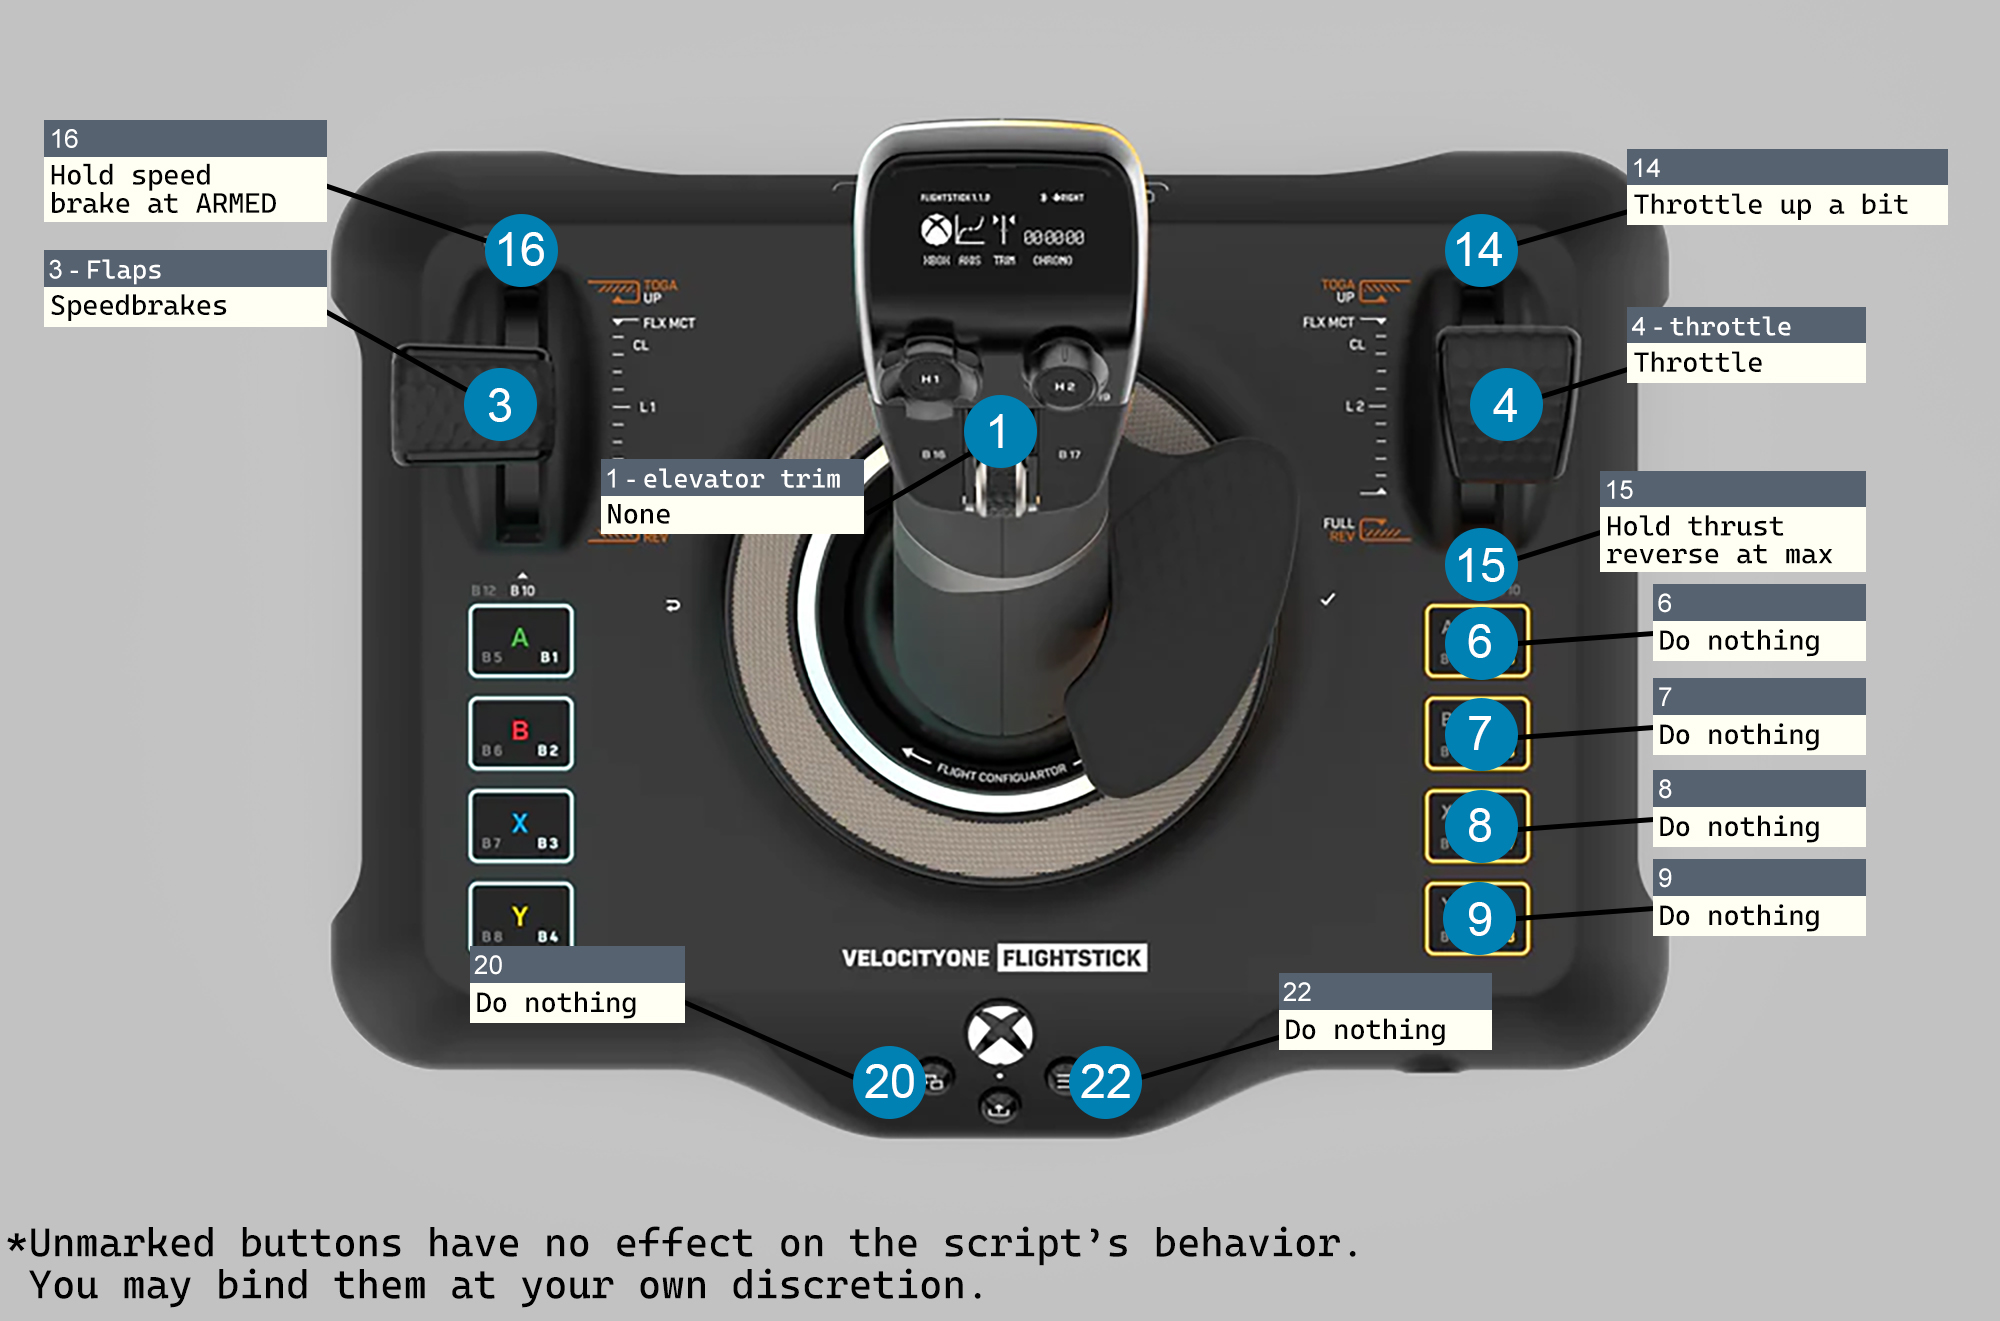
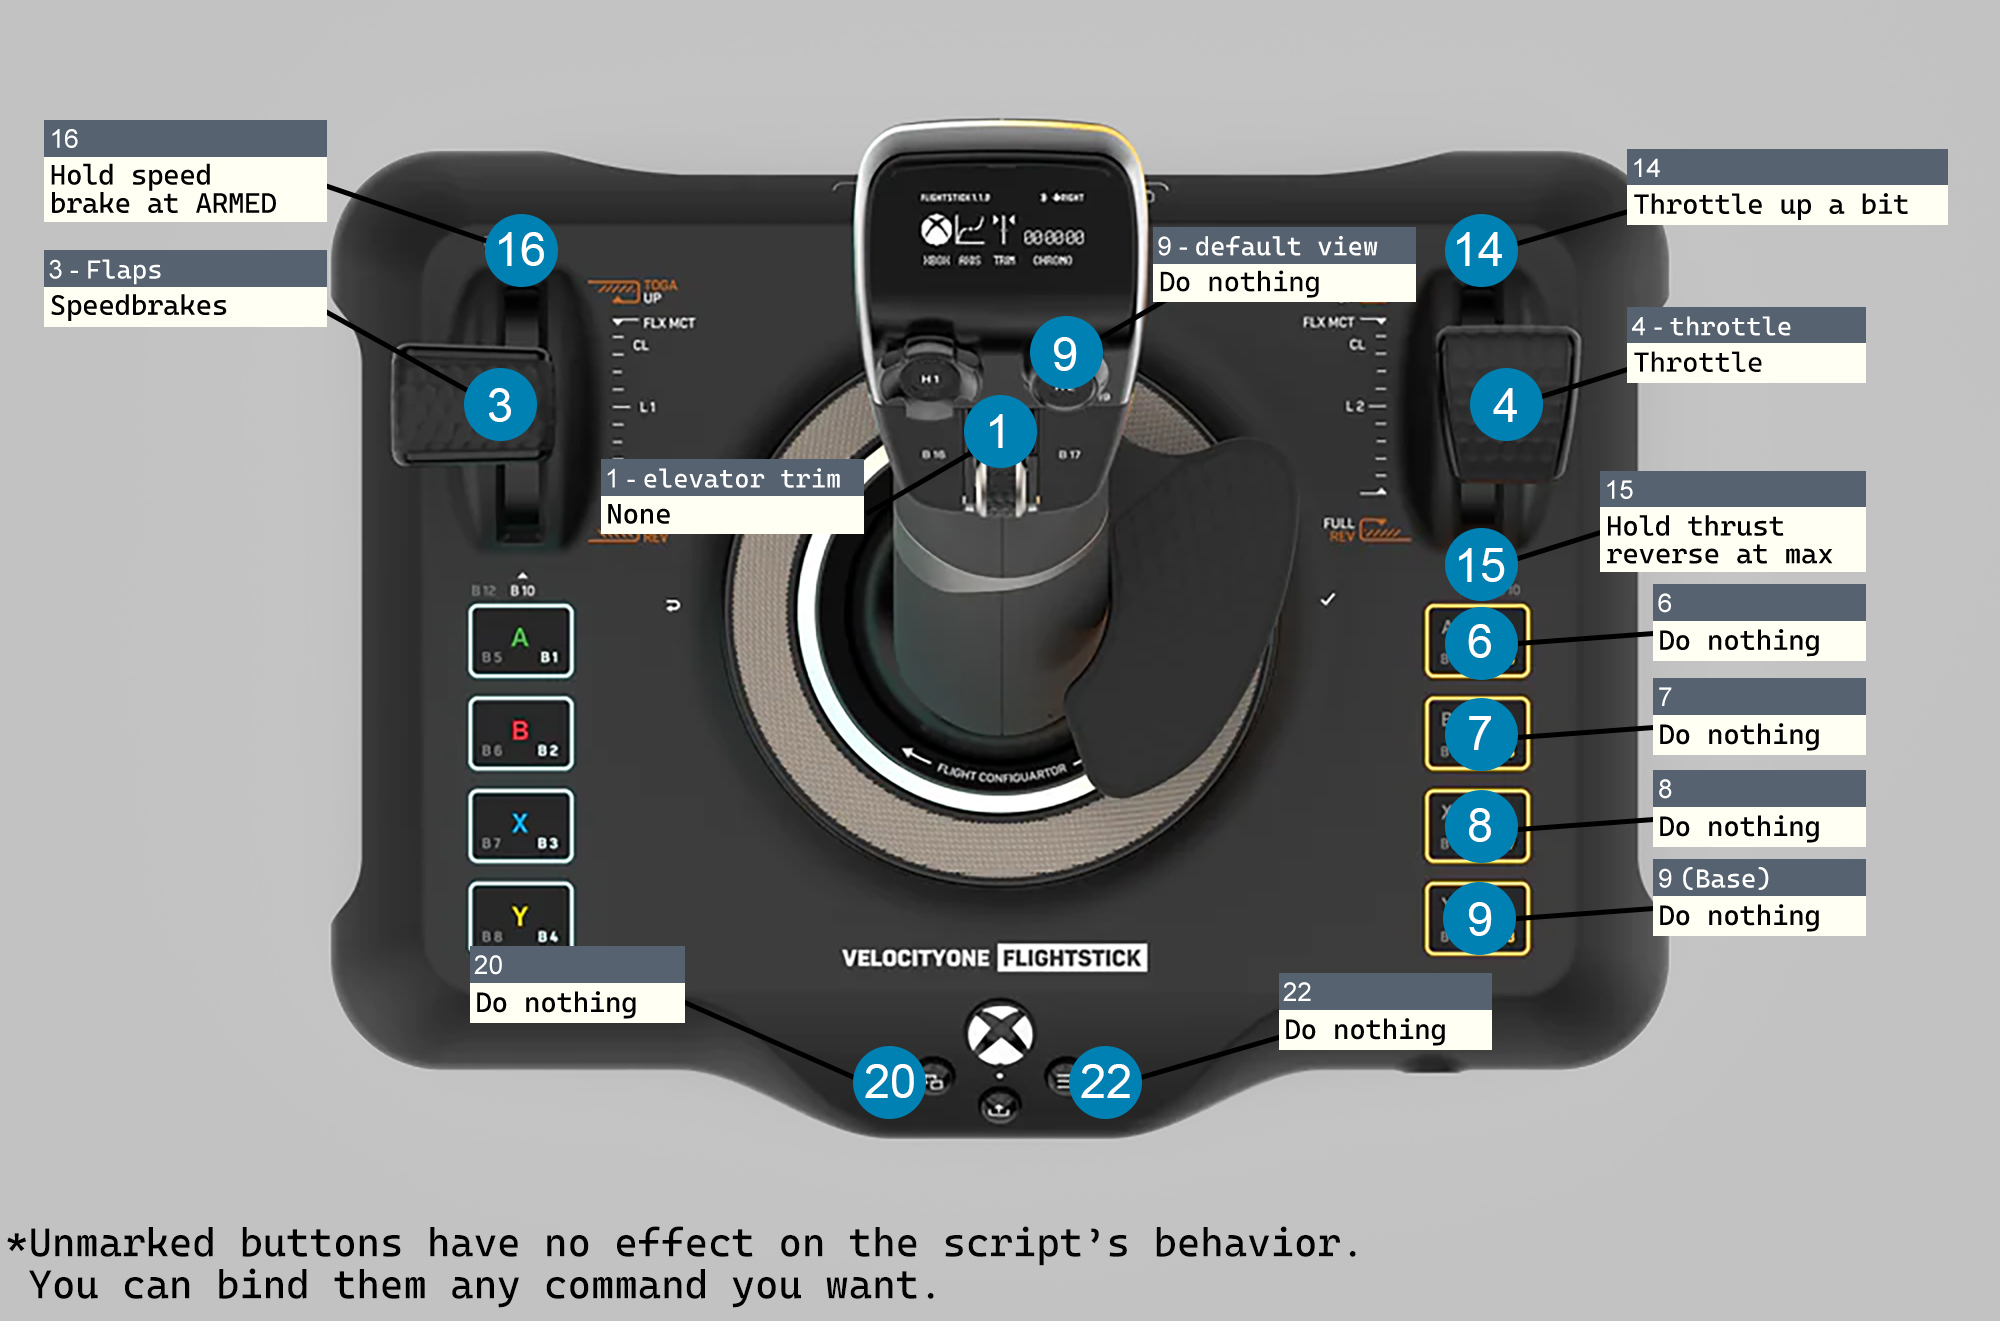
added elevator trim, button disable / fixed log spamming

diff --git a/README.md b/README.md
@@ -11,10 +11,15 @@ Toliss A320 Family와 터틀비치 벨로시티원 플라이트스틱용 Lua 스
 - 스포일러 ARM
 - FLX/MCT Detent
 - TO/GA Detent
-- 트림 휠을 통한 FCU (속도, 방위, 고도, 상승/하강률) 제어
+- 트림 휠을 통한 FCU (속도, 방위, 고도, 상승/하강률), 엘레베이터 트림 제어
 - FCU 노브 누르기/당기기
+- 가운데 휠 조작시 양 옆 버튼 비활성화 (오조작 방지)
 
-[기능 소개/설치 가이드](https://youtu.be/ooHXa0mzt3g)
+[기능 소개/설치 가이드](https://youtu.be/ooHXa0mzt3g)  
+(2024-03-13 추가)  
+Base의 6, 7, 8, 9 버튼은 각각 속도, 헤딩, 고도, VS 조작을 활성화합니다.  
+Top의 9번 버튼은 엘레베이터 트림 조작을 활성화합니다.
+
 
 ## 설치 방법
 
@@ -24,6 +29,8 @@ Toliss A320 Family와 터틀비치 벨로시티원 플라이트스틱용 Lua 스
 - FlyWithLua\Scripts 폴더 안에 'please read the manual.lua' 파일을 삭제합니다.
 
 ### 스크립트 설치/조이스틱 설정
+모든 설정은 조이스틱이 **왼손 모드**로 설정된 기준입니다.
+
 [스크립트 다운로드](https://github.com/chrimp/Flightstick_extension/releases/download/23-07-11/TolissFS.lua)
 - 'TolissFS.lua' 파일을 FlyWithLua\Scripts 폴더 안에 복사합니다.
 - (방법 1) X-Plane을 실행하고, 설정 -> Joystick에서 아래의 사진대로 버튼을 설정합니다.
@@ -42,10 +49,14 @@ This is a Lua script for Toliss A320 Family on Turtle Beach VelocityOne Flightst
 - Spoilers ARM
 - FLX/MCT Detent
 - TO/GA Detent
-- FCU (Speed, Heading, Altitude, Vertical Speed) control with trim wheel
+- FCU (Speed, Heading, Altitude, Vertical Speed), elevator trim control with trim wheel
 - FCU knob push/pull
+- Disables two buttons next to the center wheel when rotating the wheel (preventing unintentional trigger)
 
-[Feature Overview/Installation Guide](https://youtu.be/ooHXa0mzt3g)
+[Feature Overview/Installation Guide (Subtitles available)](https://youtu.be/ooHXa0mzt3g)  
+(Added March 13, 2024)  
+Button 6, 7, 8, and 9 on the Base enables Speed, Heading, Altitude, V/S control each.  
+Button 9 on the Top enables Elevator Trim control.
 
 ## Installation
 ### FlyWithLua Installation
@@ -53,6 +64,8 @@ This is a Lua script for Toliss A320 Family on Turtle Beach VelocityOne Flightst
 - Copy 'FlyWithLua' folder in the zip file to X-Plane 12\Resources\plugins\ folder.
 - Delete 'please read the manual.lua' file in FlyWithLua\Scripts folder.
 ### Script Installation/Joystick Configuration
+All mappings are based on the **Left Orientation** mode.
+
 [Script Download](https://github.com/chrimp/Flightstick_extension/releases/download/23-07-11/TolissFS.lua)
 - Copy 'TolissFS.lua' file to FlyWithLua\Scripts folder.
 - (Method 1) Run X-Plane and configure buttons as shown in below image in Settings -> Joystick.
